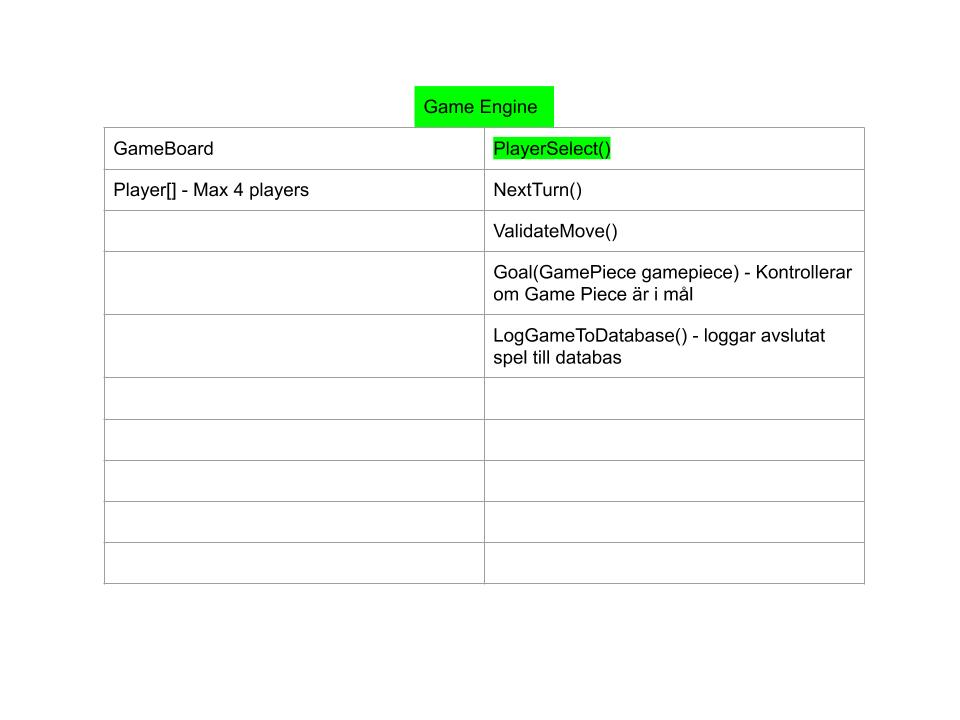
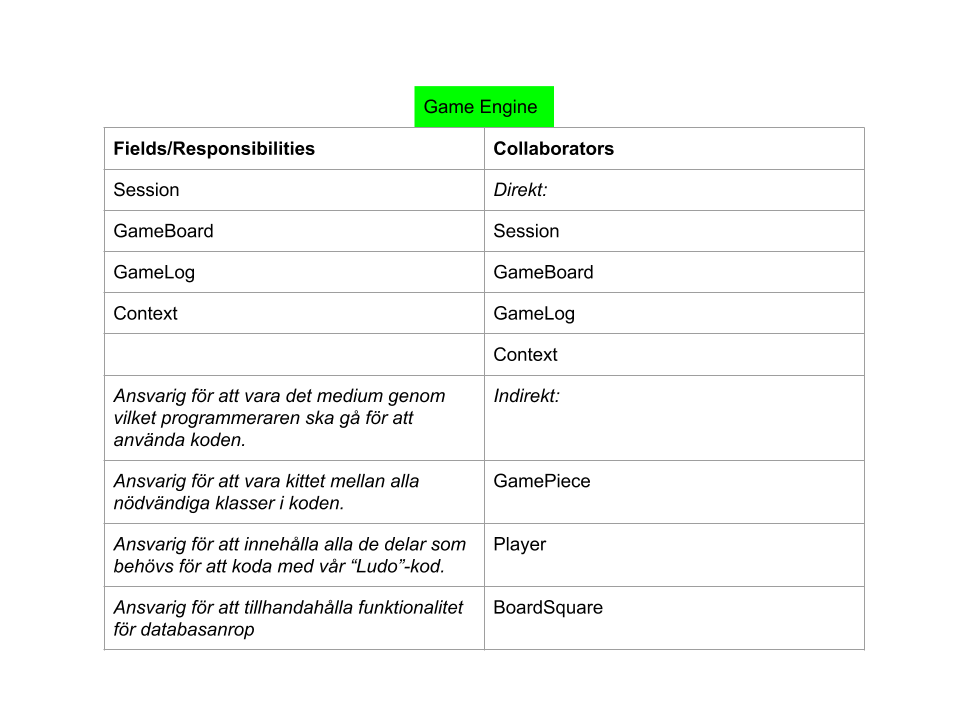
@Gerglamesh, updated CRC-Cards in documentation

diff --git a/Source/Engine/GameBoard.cs b/Source/Engine/GameBoard.cs
@@ -110,7 +110,7 @@ namespace EngineClasses
         /// </summary>
         /// <param name="player"></param>
         /// <returns></returns>
-        public BoardSquare GetStartingSquare(Player player) => Board.Where(b => b.Color == player.Color && b.StartingSquare).FirstOrDefault();
+        public BoardSquare GetStartingSquare(Player player) => Board.Where(b => b.Color == player.Color && b.IsStartingSquare).FirstOrDefault();
 
         /// <summary>
         /// Returns gamesquare based on game pieces position (int).
@@ -118,14 +118,6 @@ namespace EngineClasses
         /// <param name="gamePiece"></param>
         /// <returns></returns>
         public BoardSquare GetCurrentSquare(GamePiece gamePiece) => Board.Where(b => b.BoardSquareNumber == gamePiece.BoardSquareNumber.Value).FirstOrDefault();
-
-
-        /// <summary>
-        /// Returns the square after the square the game piece is currently at.
-        /// </summary>
-        /// <param name="gamePiece"></param>
-        /// <returns></returns>
-        public BoardSquare GetNextSquare(GamePiece gamePiece) => Board.Where(b => b.BoardSquareNumber == gamePiece.BoardSquareNumber.Value + 1).FirstOrDefault();
 
         public void PlaceGamePiece(GamePiece gamePiece, BoardSquare boardSquare)
         {

diff --git a/Source/EngineClassesTests/GameBoardTests.cs b/Source/EngineClassesTests/GameBoardTests.cs
@@ -19,7 +19,7 @@ namespace EngineClasses.Tests
 
             var result = board.GetStartingSquare(player);
 
-            Assert.AreEqual(board.Board.Where(s => s.Color == player.Color && s.StartingSquare).First().Color, result.Color);
+            Assert.AreEqual(board.Board.Where(s => s.Color == player.Color && s.IsStartingSquare).First().Color, result.Color);
         }
 
         [TestMethod()]
@@ -35,20 +35,6 @@ namespace EngineClasses.Tests
             var result = board.GetCurrentSquare(player.GamePieces[1]);
 
             Assert.AreEqual(board.Board[boardNumber], result);
-        }
-
-        [TestMethod()]
-        public void GetNextSquareTest_CreateGamePieceAddPosition_CheckPositionIsPlusOne()
-        {
-            GameBoard board = new GameBoard();
-            Player player = new Player("Testman", "Red");
-            player.AddGamePieces();
-            int boardNumber = 3;
-
-            player.GamePieces[1].BoardSquareNumber = boardNumber;
-            var result = board.GetNextSquare(player.GamePieces[1]);
-
-            Assert.AreEqual(board.Board[boardNumber + 1], result);
         }
     }
 }

diff --git a/Source/Engine/BoardSquare.cs b/Source/Engine/BoardSquare.cs
@@ -10,8 +10,8 @@ namespace EngineClasses
     {
         public int BoardSquareNumber { get; set; }
         public string Color { get; set; }
-        public bool StartingSquare { get; set; }
-        public bool EndSquare { get; set; }
+        public bool IsStartingSquare { get; set; }
+        public bool IsEndSquare { get; set; }
 
         public List<GamePiece> GamePieces { get; private set; }
 
@@ -19,8 +19,8 @@ namespace EngineClasses
         {
             this.BoardSquareNumber = boardSquareNumber;
             this.Color = color;
-            this.StartingSquare = startingSquare;
-            this.EndSquare = endSquare;
+            this.IsStartingSquare = startingSquare;
+            this.IsEndSquare = endSquare;
             this.GamePieces = new List<GamePiece>();
         }
 

diff --git a/Source/Engine/GameEngine.cs b/Source/Engine/GameEngine.cs
@@ -115,7 +115,7 @@ namespace EngineClasses
                     {
                         gamePiece.BoardSquareNumber = GameBoard.FindNextValidSquare(gamePiece).BoardSquareNumber;
 
-                        if (GameBoard.Board[gamePiece.BoardSquareNumber.Value].EndSquare)
+                        if (GameBoard.Board[gamePiece.BoardSquareNumber.Value].IsEndSquare)
                         {
                             gamePiece.IsAtGoal = true;
                         }

diff --git a/Source/Ludo/GameLoop.cs b/Source/Ludo/GameLoop.cs
@@ -226,11 +226,11 @@ namespace Ludo
                     Console.BackgroundColor = ConsoleColor.Gray;
                 }
 
-                if (square.StartingSquare)
+                if (square.IsStartingSquare)
                 {
                     Console.Write("S");
                 }
-                else if (square.EndSquare)
+                else if (square.IsEndSquare)
                 {
                     Console.Write("E");
                 }

diff --git a/Source/Engine/Session.cs b/Source/Engine/Session.cs
@@ -42,7 +42,7 @@ namespace EngineClasses
 
         public Player GetCurrentPlayer() => Player.ToList()[(Turns % Player.Count)];
 
-        public GamePiece SelectGamePiece(Player player, int index) => player.SelectGamePiece(index);
+        public GamePiece SelectGamePiece(Player player, int index) => player.GamePieces[index];
 
         public int RollDice()
         {

diff --git a/Source/Engine/GamePiece.cs b/Source/Engine/GamePiece.cs
@@ -22,6 +22,7 @@ namespace EngineClasses
         public int? BoardSquareNumber { get; set; }
 
         public GamePiece() { }
+
         public GamePiece(Player player, int gamePieceNumber)
         {
             this.Player = player;

diff --git a/Source/Engine/Player.cs b/Source/Engine/Player.cs
@@ -36,7 +36,5 @@ namespace EngineClasses
                 }
             }
         }
-
-        public GamePiece SelectGamePiece(int index) => GamePieces[index];
     }
 }

diff --git a/Documentation/readme.md b/Documentation/readme.md
@@ -68,18 +68,19 @@ Löpande under projektet skrev vi dagbok över vad som gjorts den dagen:
 
 [Dagboken](Dagboken.docx)
 
-Vi försökte under projektet få till ett WPF dokument som ett slags frontend-
+Vi försökte under projektet få till ett WPF projekt som ett slags frontend-
 projekt för att kunna visa spelet. Detta blev för tidskrävande och vi fick överge det projektet.
 Hade vi haft mer tid hade vi fått till det men eftersom det inte krävdes för projektet och
 vi kände att vi hade viktigare saker att fokusera på rationaliserades detta bort.
 
-Så långt som vi kom i WPF-projektet kan beskådes i en separat branch i projektet för den som är nyfiken.
+Så långt som vi kom i WPF-projektet kan beskådas i en separat branch i projektet för den som är nyfiken.
 
-På slutet föll vi i fällan att vår tidsbrist gjorde att dokumentationen blev lidande. 
+På slutet föll vi i fällan att vår tidsbrist gjorde att dokumentationen blev något lidande. 
 En lärdom är att man som utvecklare återigen hela tiden måste tänka på att planera
-sina projekt på ett bra sätt. Hade vi underhållit dokumentation lite bättre under 
-projektets gång generellt så hade det nog varit lättare att få in dokumentation även 
-när vi fick tidsbrist.
+sina projekt på ett bra sätt. Dte är ganska lätt hänt att man gör dokumentation i början som 
+man sedan ogärna återvänder till och redigerar senare i projektet, även om det kanske hade behövts
+att man gjorde det. Hade vi underhållit dokumentationen lite bättre under projektets gång generellt 
+så hade det nog varit lättare att få in dokumentation även när vi fick tidsbrist.
 
 
 
